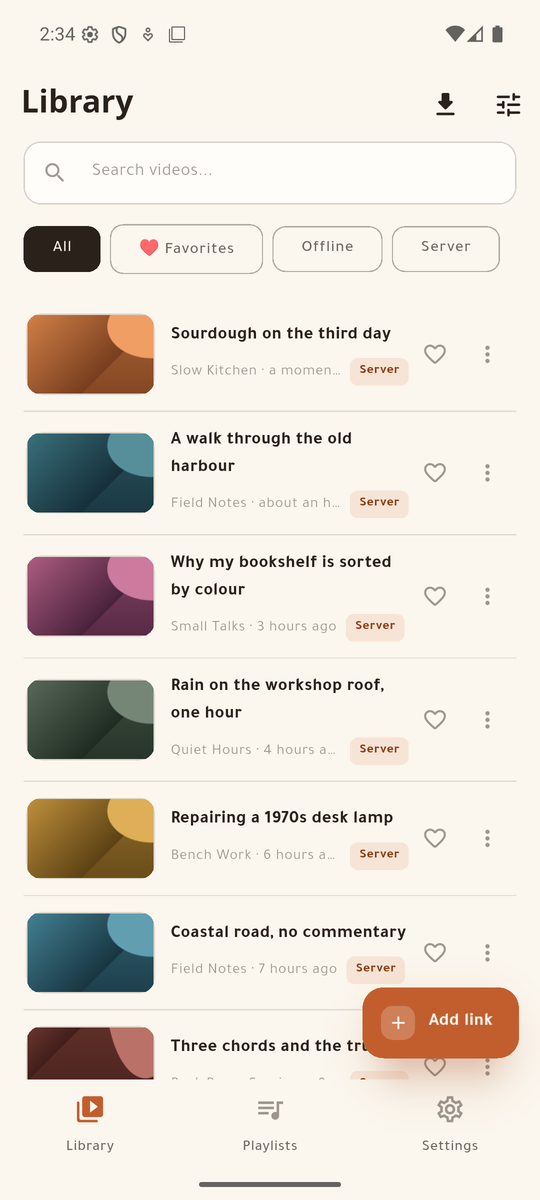
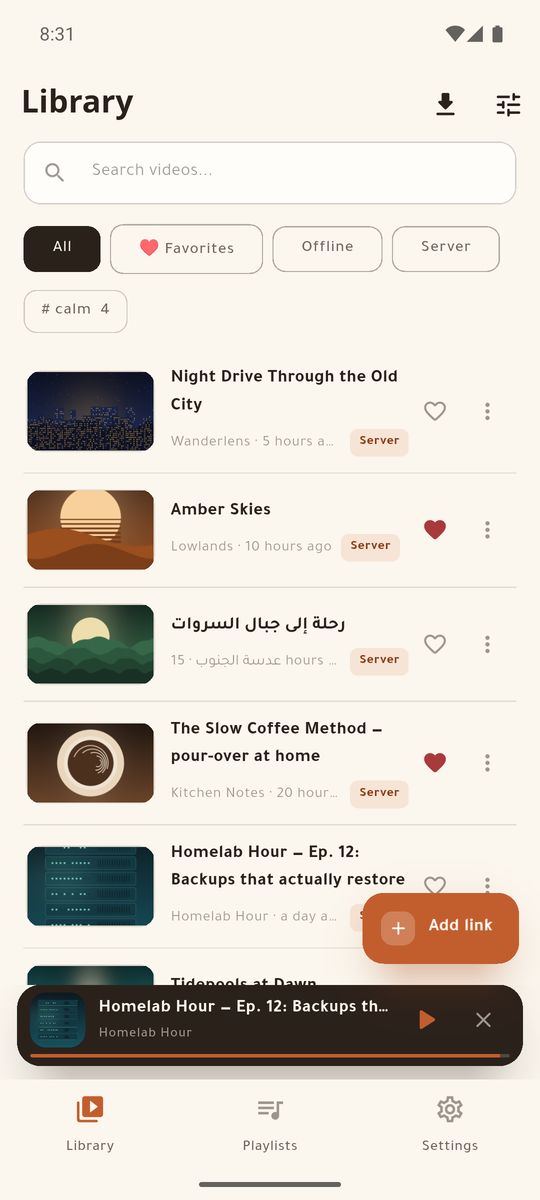
site: a gallery of the players and playlists, and a layout built for phones
The hero sits beside a phone on a wide screen and above it on a narrow one;
the screenshots ride in a rail that scrolls inside its own box, so the page
never grows wider than the phone; the two apps are cards, not a table.
Every title and cover shown is invented.

diff --git a/index.html b/index.html
@@ -10,8 +10,12 @@
 <meta property="og:title" content="MeTube Mobile — Android clients for MeTube">
 <meta property="og:description" content="Queue a link from your phone, then keep the file on your server and stream it, or pull it to the device and let the server clean itself up.">
 <meta property="og:url" content="https://sagheerys.github.io/metube-mobile/">
-<meta property="og:image" content="https://sagheerys.github.io/metube-mobile/screenshots/lite-day.png">
+<meta property="og:image" content="https://sagheerys.github.io/metube-mobile/screenshots/hero.jpg">
+<meta property="og:image:width" content="2000">
+<meta property="og:image:height" content="1137">
 <meta name="twitter:card" content="summary_large_image">
+<meta name="theme-color" content="#FBF6EE" media="(prefers-color-scheme: light)">
+<meta name="theme-color" content="#1A130F" media="(prefers-color-scheme: dark)">
 <link rel="preconnect" href="https://fonts.googleapis.com">
 <link rel="preconnect" href="https://fonts.gstatic.com" crossorigin>
 <link href="https://fonts.googleapis.com/css2?family=Noto+Kufi+Arabic:wght@500;700&family=Tajawal:wght@400;500;700&display=swap" rel="stylesheet">
@@ -19,118 +23,209 @@
 :root{
   --bg:#FBF6EE; --ink:#2B211B; --muted:#6B5B4E; --line:#E3D8C9;
   --card:#FFFDF8; --super:#C25E2E; --superDeep:#9E4517; --lite:#2F6D74;
+  --onAccent:#FFF8F2; --frame:#2B211B; --gutter:16px;
 }
 @media (prefers-color-scheme: dark){
   :root{ --bg:#1A130F; --ink:#F4EBDF; --muted:#C3B2A2; --line:#3A2C23;
-         --card:#241B15; --super:#E0784A; --superDeep:#C25E2E; --lite:#6FB3BA; }
+         --card:#241B15; --super:#E0784A; --superDeep:#E0784A; --lite:#6FB3BA;
+         --onAccent:#2B1207; --frame:#4A3A2F; }
 }
 *{box-sizing:border-box}
-img{max-width:100%;height:auto}
+html{-webkit-text-size-adjust:100%}
+img{max-width:100%;height:auto;display:block}
 body{margin:0;background:var(--bg);color:var(--ink);
   font-family:'Tajawal',system-ui,-apple-system,'Segoe UI',sans-serif;
-  font-size:17px;line-height:1.7}
+  font-size:17px;line-height:1.7;overflow-x:hidden}
 h1,h2,h3{font-family:'Noto Kufi Arabic','Tajawal',system-ui,sans-serif;line-height:1.3;margin:0 0 .5em}
-h1{font-size:2.3rem;font-weight:700}
-h2{font-size:1.5rem;font-weight:700;margin-top:2.5rem}
+h1{font-size:clamp(2rem,6vw,3rem);font-weight:700}
+h2{font-size:clamp(1.3rem,3.6vw,1.7rem);font-weight:700;margin-top:clamp(2.4rem,7vw,4rem)}
+h3{font-size:1.1rem;font-weight:700}
+p{margin:0 0 1em}
 a{color:var(--superDeep)}
-@media (prefers-color-scheme: dark){a{color:var(--super)}}
-.wrap{max-width:860px;margin:0 auto;padding:48px 20px 80px}
-.tag{display:inline-block;font-size:.8rem;letter-spacing:.08em;text-transform:uppercase;
+.wrap{max-width:1040px;margin:0 auto;padding:clamp(28px,6vw,64px) var(--gutter) 72px}
+.tag{display:inline-block;font-size:.78rem;letter-spacing:.08em;text-transform:uppercase;
   color:var(--muted);border:1px solid var(--line);border-radius:999px;padding:4px 12px;margin-bottom:18px}
-.lead{font-size:1.15rem;color:var(--muted);max-width:62ch}
-.cta{display:flex;flex-wrap:wrap;gap:12px;margin:28px 0 8px}
-.btn{display:inline-block;padding:12px 22px;border-radius:12px;text-decoration:none;font-weight:700}
-.btn-main{background:var(--super);color:#FFF8F2}
-@media (prefers-color-scheme: dark){.btn-main{color:#2B1207}}
-.btn-ghost{border:1px solid var(--line);color:var(--ink)}
+.lead{font-size:clamp(1.02rem,2.6vw,1.18rem);color:var(--muted);max-width:60ch}
 .note{font-size:.92rem;color:var(--muted)}
-.hero-media{margin:32px 0;text-align:center}
-.hero-media img{max-width:300px;width:100%;border-radius:18px;border:1px solid var(--line)}
-.hero-media figcaption{font-size:.9rem;color:var(--muted);margin-top:10px}
-/* The table keeps a readable width and scrolls inside its own box, so the
-   page itself never grows wider than the phone. */
-.scroller{overflow-x:auto;margin:18px 0}
-table{width:100%;min-width:460px;border-collapse:collapse;font-size:.98rem}
-th,td{text-align:left;padding:12px 10px;border-bottom:1px solid var(--line);vertical-align:top}
-th{font-weight:700}
-.lite{color:var(--lite);font-weight:700}
-.super{color:var(--super);font-weight:700}
-.shots{display:flex;gap:16px;flex-wrap:wrap;justify-content:center;margin:20px 0}
-.shots img{width:240px;max-width:45%;border-radius:14px;border:1px solid var(--line)}
-pre{max-width:100%;background:var(--card);border:1px solid var(--line);border-radius:12px;padding:14px;overflow-x:auto;font-size:.88rem}
+
+/* ── Hero: copy beside a phone on a wide screen, above it on a narrow one ── */
+.hero{display:grid;gap:clamp(24px,5vw,56px);align-items:center}
+@media (min-width:820px){.hero{grid-template-columns:1.15fr .85fr}}
+.cta{display:flex;flex-wrap:wrap;gap:12px;margin:26px 0 10px}
+.btn{display:inline-flex;align-items:center;justify-content:center;min-height:48px;
+  padding:12px 22px;border-radius:14px;text-decoration:none;font-weight:700}
+.btn-main{background:var(--super);color:var(--onAccent)}
+.btn-ghost{border:1px solid var(--line);color:var(--ink)}
+@media (max-width:480px){.btn{flex:1 1 100%}}
+.hero-phone{justify-self:center;width:min(74vw,300px)}
+
+/* ── A phone: the frame every screenshot sits in ── */
+.phone{margin:0}
+.phone img{width:100%;border-radius:26px;border:3px solid var(--frame);
+  box-shadow:0 18px 40px -18px rgba(43,33,27,.55);background:var(--card)}
+.phone figcaption{font-size:.9rem;color:var(--muted);margin-top:12px;text-align:center;line-height:1.5}
+.phone figcaption strong{display:block;color:var(--ink);font-weight:700}
+
+/* ── A rail of phones. It scrolls sideways inside its own box, bleeding to
+      the screen edge on a phone, so the page itself never grows wider. ── */
+.rail{display:grid;grid-auto-flow:column;grid-auto-columns:min(64vw,230px);gap:18px;
+  overflow-x:auto;scroll-snap-type:x mandatory;-webkit-overflow-scrolling:touch;
+  margin:22px calc(var(--gutter) * -1) 0;padding:6px var(--gutter) 22px;scrollbar-width:thin}
+.rail > *{scroll-snap-align:center}
+@media (min-width:820px){.rail{grid-auto-columns:230px;margin-inline:0;padding-inline:2px}}
+.hint{font-size:.85rem;color:var(--muted);margin:0}
+@media (min-width:1040px){.hint{display:none}}
+
+/* ── The two apps, as cards rather than a table: a table of four columns
+      is the first thing to break on a phone. ── */
+.apps{display:grid;gap:16px;margin-top:20px}
+@media (min-width:720px){.apps{grid-template-columns:1fr 1fr}}
+.app{background:var(--card);border:1px solid var(--line);border-radius:20px;padding:22px 22px 12px}
+.app h3{font-size:1.25rem;margin-bottom:2px}
+.app .for{color:var(--muted);font-size:.95rem;margin-bottom:12px}
+.app dl{margin:0}
+.app dt{font-size:.78rem;letter-spacing:.06em;text-transform:uppercase;color:var(--muted);margin-top:12px}
+.app dd{margin:2px 0 0}
+.lite h3{color:var(--lite)} .super h3{color:var(--super)}
+.lite{border-top:4px solid var(--lite)} .super{border-top:4px solid var(--super)}
+
+.split{display:grid;gap:clamp(20px,5vw,48px);align-items:center;margin-top:12px}
+@media (min-width:760px){.split{grid-template-columns:1fr minmax(220px,280px)}}
+.split .phone{justify-self:center;width:min(70vw,280px)}
+
+ul{padding-inline-start:1.2em;margin:0 0 1em}
+li{margin:.45em 0}
+pre{max-width:100%;background:var(--card);border:1px solid var(--line);border-radius:14px;
+  padding:14px;overflow-x:auto;font-size:.86rem;line-height:1.55}
 code{font-family:ui-monospace,SFMono-Regular,Consolas,monospace}
-ul{padding-inline-start:1.2em}
-li{margin:.4em 0}
-.ar{direction:rtl;text-align:right;border-top:1px solid var(--line);margin-top:56px;padding-top:32px}
-.ar ul{padding-inline-start:0;padding-inline-end:1.2em}
-.ar th,.ar td{text-align:right}
+.ar{direction:rtl;text-align:right;border-top:1px solid var(--line);margin-top:64px;padding-top:36px}
+.ar ul{padding-inline-start:1.2em}
+.ar .app dt{letter-spacing:0}
 footer{margin-top:56px;border-top:1px solid var(--line);padding-top:22px;font-size:.9rem;color:var(--muted)}
 </style>
 </head>
 <body>
 <div class="wrap">
 
-  <span class="tag">Unofficial · GPL-3.0 · Android</span>
-  <h1>MeTube Mobile</h1>
-  <p class="lead">Two Android apps for a self-hosted
-    <a href="https://github.com/alexta69/metube">MeTube</a> server — the yt-dlp
-    web downloader you already run on your NAS or homelab. Share a link from
-    your phone, and either keep the file on the server and stream it, or pull it
-    to the device and let the server clean itself up.</p>
+  <header class="hero">
+    <div>
+      <span class="tag">Unofficial · GPL-3.0 · Android</span>
+      <h1>MeTube Mobile</h1>
+      <p class="lead">Two Android apps for a self-hosted
+        <a href="https://github.com/alexta69/metube">MeTube</a> server — the yt-dlp
+        web downloader you already run on your NAS or homelab. Share a link from
+        your phone, and either keep the file on the server and stream it, or pull it
+        to the device and let the server clean itself up.</p>
+      <div class="cta">
+        <a class="btn btn-main" href="https://github.com/sagheerys/metube-mobile/releases/latest">Download the APKs</a>
+        <a class="btn btn-ghost" href="https://github.com/sagheerys/metube-mobile">Source on GitHub</a>
+      </div>
+      <p class="note">Listed in MeTube's own README, under
+        <a href="https://github.com/alexta69/metube#-sending-links-to-metube">Sending links to MeTube</a>.
+        There is no Play Store build, because Play does not allow this category.</p>
+    </div>
+    <figure class="phone hero-phone">
+      <picture>
+        <source srcset="screenshots/super-night.png" media="(prefers-color-scheme: dark)">
+        <img src="screenshots/super-day.png" width="540" height="1200" alt="The MeTube Super library: server items with covers, favourites, a tag filter and the mini player">
+      </picture>
+    </figure>
+  </header>
 
-  <div class="cta">
-    <a class="btn btn-main" href="https://github.com/sagheerys/metube-mobile/releases/latest">Download the APKs</a>
-    <a class="btn btn-ghost" href="https://github.com/sagheerys/metube-mobile">Source on GitHub</a>
+  <h2>A look inside</h2>
+  <p class="note">Every title, channel and cover below is invented for these screenshots; no real server or account appears in them.</p>
+  <div class="rail" aria-label="Screenshots of MeTube Super">
+    <figure class="phone">
+      <img loading="lazy" src="screenshots/super-player.png" width="540" height="1200" alt="Streaming a video from the server, with actions and the up-next queue beneath it">
+      <figcaption><strong>Stream from your server</strong>Save to the phone, continue as audio, share, with the queue beneath.</figcaption>
+    </figure>
+    <figure class="phone">
+      <picture>
+        <source srcset="screenshots/super-audio-night.png" media="(prefers-color-scheme: dark)">
+        <img loading="lazy" src="screenshots/super-audio-day.png" width="540" height="1200" alt="The audio player: cover art, a seek bar, shuffle, speed and the queue">
+      </picture>
+      <figcaption><strong>A real audio player</strong>Background playback, lock-screen controls, speed and shuffle.</figcaption>
+    </figure>
+    <figure class="phone">
+      <picture>
+        <source srcset="screenshots/super-playlists-night.png" media="(prefers-color-scheme: dark)">
+        <img loading="lazy" src="screenshots/super-playlists-day.png" width="540" height="1200" alt="Playlists: three automatic lists above the user's own, each with a cover mosaic">
+      </picture>
+      <figcaption><strong>Playlists</strong>Favourites, latest and offline build themselves; yours sit beneath.</figcaption>
+    </figure>
+    <figure class="phone">
+      <img loading="lazy" src="screenshots/super-queue-night.png" width="540" height="1200" alt="The up-next queue at night, with durations and the item now playing">
+      <figcaption><strong>Up next, at night</strong>A full night palette, not a half-dark screen.</figcaption>
+    </figure>
+    <figure class="phone">
+      <img loading="lazy" src="screenshots/super-select.png" width="540" height="1200" alt="Four library items selected, with actions for playlist, tag and delete">
+      <figcaption><strong>Batch actions</strong>Select many: add to a playlist, tag, or delete from the server.</figcaption>
+    </figure>
+    <figure class="phone">
+      <img loading="lazy" src="screenshots/super-playlist.png" width="540" height="1200" alt="One playlist with play all, shuffle and audio-only buttons">
+      <figcaption><strong>Play all, or just listen</strong>Any playlist plays as video or as audio only.</figcaption>
+    </figure>
+    <figure class="phone">
+      <img loading="lazy" src="screenshots/lite-shorts.png" width="540" height="1200" alt="The shorts player showing a portrait clip with details, add-to and share">
+      <figcaption><strong>A lane for portrait clips</strong>Swipe through short vertical videos, full screen.</figcaption>
+    </figure>
   </div>
-  <p class="note">Listed in MeTube's own README, under
-    <a href="https://github.com/alexta69/metube#-sending-links-to-metube">Sending links to MeTube</a>.
-    There is no Play Store build, because Play does not allow this category.</p>
-
-  <figure class="hero-media">
-    <img src="screenshots/lite-share.gif" alt="A link is shared to MeTube Lite, the server downloads it, the phone pulls the file, and the server is cleaned up">
-    <figcaption>MeTube Lite: share a link, the server downloads it, the phone pulls the file, the server is cleared. Twenty seconds, invented demo data.</figcaption>
-  </figure>
+  <p class="hint">Swipe sideways for more →</p>
 
   <h2>Which app is for you</h2>
-  <div class="scroller">
-  <table>
-    <tr><th></th><th class="lite">MeTube Lite</th><th class="super">MeTube Super</th></tr>
-    <tr><td><strong>After a download</strong></td>
-        <td>Pulls the file to the phone, then removes it from the server</td>
-        <td>Keeps everything on the server</td></tr>
-    <tr><td><strong>Library</strong></td>
-        <td>What is on the phone</td>
-        <td>The server's history and the phone's files, merged into one</td></tr>
-    <tr><td><strong>Playback</strong></td>
-        <td>Local files</td>
-        <td>Streams from the server, and plays local files</td></tr>
-    <tr><td><strong>Also has</strong></td>
-        <td>A Wi-Fi-only rule, for limited data</td>
-        <td>Tags, batch downloads, make available offline, and two server addresses it switches between</td></tr>
-  </table>
+  <div class="apps">
+    <section class="app lite">
+      <h3>MeTube Lite</h3>
+      <p class="for">For family and friends who just want the file.</p>
+      <dl>
+        <dt>After a download</dt><dd>Pulls the file to the phone, then removes it from the server.</dd>
+        <dt>Library</dt><dd>What is on the phone.</dd>
+        <dt>Playback</dt><dd>Local files.</dd>
+        <dt>Also has</dt><dd>A Wi-Fi-only rule for limited data, and it finishes at the next launch what a killed app could not.</dd>
+      </dl>
+    </section>
+    <section class="app super">
+      <h3>MeTube Super</h3>
+      <p class="for">For the person who runs the server.</p>
+      <dl>
+        <dt>After a download</dt><dd>Keeps everything on the server.</dd>
+        <dt>Library</dt><dd>The server's history and the phone's files, merged into one.</dd>
+        <dt>Playback</dt><dd>Streams from the server, and plays local files.</dd>
+        <dt>Also has</dt><dd>Tags, batch downloads, make available offline, a server card that says what the server holds and runs, and two addresses it switches between.</dd>
+      </dl>
+    </section>
   </div>
-  <p class="note">They are separate apps and install side by side.</p>
+  <p class="note" style="margin-top:14px">They are separate apps and install side by side.</p>
+
+  <h2>MeTube Lite, start to finish</h2>
+  <div class="split">
+    <div>
+      <p>Share a link from any app. The server downloads it, the phone pulls the
+         file, and the server is cleared — so a shared family server does not fill up.</p>
+      <ul>
+        <li>Links from Android's share sheet, even from a cold start, and several at once.</li>
+        <li>A four-stage pipeline — add, follow, pull, clean — with live progress and a cancel that leaves nothing behind.</li>
+        <li>Reaches the server at home or through a tunnel, and can hold downloads to Wi-Fi.</li>
+      </ul>
+      <div class="rail" aria-label="Screenshots of MeTube Lite" style="grid-auto-columns:min(46vw,190px)">
+        <figure class="phone"><img loading="lazy" src="screenshots/lite-day.png" width="540" height="1200" alt="The MeTube Lite library by day"><figcaption>By day</figcaption></figure>
+        <figure class="phone"><img loading="lazy" src="screenshots/lite-night.png" width="540" height="1200" alt="The MeTube Lite library at night"><figcaption>At night</figcaption></figure>
+      </div>
+    </div>
+    <figure class="phone">
+      <img loading="lazy" src="screenshots/lite-share.gif" width="360" height="800" alt="A link is shared to MeTube Lite, the server downloads it, the phone pulls the file, and the server is cleaned up">
+      <figcaption>Twenty seconds, invented demo data.</figcaption>
+    </figure>
+  </div>
 
   <h2>Shared by both</h2>
   <ul>
-    <li>Links from Android's share sheet, even from a cold start, and several at once.</li>
-    <li>A four-stage pipeline — add, follow, pull, clean — with live progress and a cancel that leaves nothing behind.</li>
     <li>Background audio with a media notification and lock-screen controls, a mini player, and a lane for portrait clips.</li>
     <li>Playlists, favourites, search, and plain-JSON backups that hold no secret.</li>
     <li>In-app updates, straight from the GitHub releases page.</li>
+    <li>A day palette and a night palette, each drawn on purpose.</li>
     <li>Arabic and English, right-to-left first.</li>
   </ul>
-
-  <div class="shots">
-    <picture>
-      <source srcset="screenshots/lite-night.png" media="(prefers-color-scheme: dark)">
-      <img src="screenshots/lite-day.png" alt="The MeTube Lite library">
-    </picture>
-    <picture>
-      <source srcset="screenshots/super-night.png" media="(prefers-color-scheme: dark)">
-      <img src="screenshots/super-day.png" alt="The MeTube Super library">
-    </picture>
-  </div>
 
   <h2>No server yet?</h2>
   <p>These are clients: they download nothing by themselves. Every file is
@@ -154,36 +249,41 @@ footer{margin-top:56px;border-top:1px solid var(--line);padding-top:22px;font-si
   </ul>
 
   <section class="ar" lang="ar" dir="rtl">
-    <h2>بالعربية</h2>
+    <h2 style="margin-top:0">بالعربية</h2>
     <p class="lead">تطبيقان لأندرويد لسيرفر
       <a href="https://github.com/alexta69/metube">MeTube</a> الذي تستضيفه بنفسك.
       شارك الرابط من جوالك، ثم إما أن يبقى الملف على السيرفر فتشغّله بثّاً، أو
       يُسحب إلى جهازك ويُنظَّف السيرفر تلقائياً.</p>
 
-    <div class="scroller">
-    <table>
-      <tr><th></th><th class="lite">MeTube Lite</th><th class="super">MeTube Super</th></tr>
-      <tr><td><strong>بعد التنزيل</strong></td>
-          <td>يسحب الملف إلى الجوال ثم يحذفه من السيرفر</td>
-          <td>يُبقي كل شيء على السيرفر</td></tr>
-      <tr><td><strong>المكتبة</strong></td>
-          <td>ما هو على الجوال</td>
-          <td>سجلّ السيرفر وملفات الجوال في مكتبة واحدة</td></tr>
-      <tr><td><strong>التشغيل</strong></td>
-          <td>الملفات المحلية</td>
-          <td>بثّ من السيرفر، وتشغيل محلي</td></tr>
-      <tr><td><strong>وفيه أيضاً</strong></td>
-          <td>قصر التنزيل على Wi-Fi</td>
-          <td>وسوم، وتنزيل دفعات، و«إتاحة دون اتصال»، وعنوانان للسيرفر بتبديل تلقائي</td></tr>
-    </table>
+    <div class="apps">
+      <section class="app lite">
+        <h3>MeTube Lite</h3>
+        <p class="for">للعائلة والأصدقاء: يريدون الملف فقط.</p>
+        <dl>
+          <dt>بعد التنزيل</dt><dd>يسحب الملف إلى الجوال ثم يحذفه من السيرفر.</dd>
+          <dt>المكتبة</dt><dd>ما هو على الجوال.</dd>
+          <dt>التشغيل</dt><dd>الملفات المحلية.</dd>
+          <dt>وفيه أيضاً</dt><dd>قصر التنزيل على Wi-Fi، وإكمال ما لم يكتمل عند الفتح التالي.</dd>
+        </dl>
+      </section>
+      <section class="app super">
+        <h3>MeTube Super</h3>
+        <p class="for">لمالك السيرفر.</p>
+        <dl>
+          <dt>بعد التنزيل</dt><dd>يُبقي كل شيء على السيرفر.</dd>
+          <dt>المكتبة</dt><dd>سجلّ السيرفر وملفات الجوال في مكتبة واحدة.</dd>
+          <dt>التشغيل</dt><dd>بثّ من السيرفر، وتشغيل محلي.</dd>
+          <dt>وفيه أيضاً</dt><dd>وسوم، وتنزيل دفعات، و«إتاحة دون اتصال»، وبطاقة تعرض ما على السيرفر ونسخته، وعنوانان بتبديل تلقائي.</dd>
+        </dl>
+      </section>
     </div>
 
-    <ul>
+    <ul style="margin-top:22px">
       <li>استقبال الروابط من قائمة المشاركة، ولو كان التطبيق مغلقاً، وعدة روابط معاً.</li>
-      <li>تشغيل الصوت في الخلفية مع إشعار وسائط وأزرار في شاشة القفل.</li>
+      <li>تشغيل الصوت في الخلفية مع إشعار وسائط وأزرار في شاشة القفل، ومشغل مصغّر، ومسار للمقاطع الطولية.</li>
       <li>قوائم تشغيل ومفضلة وبحث، ونسخ احتياطية بصيغة JSON لا تحمل أي سرّ.</li>
       <li>تحديث ذاتي من صفحة الإصدارات.</li>
-      <li>واجهة عربية كاملة من اليمين إلى اليسار.</li>
+      <li>واجهة عربية كاملة من اليمين إلى اليسار، بوضعين نهاري وليلي.</li>
     </ul>
 
     <p><strong>لا تملك سيرفراً؟</strong> التطبيقان لا ينزّلان شيئاً بنفسيهما: سيرفر
@@ -223,6 +323,7 @@ footer{margin-top:56px;border-top:1px solid var(--line);padding-top:22px;font-si
   "url": "https://sagheerys.github.io/metube-mobile/",
   "downloadUrl": "https://github.com/sagheerys/metube-mobile/releases/latest",
   "codeRepository": "https://github.com/sagheerys/metube-mobile",
+  "screenshot": "https://sagheerys.github.io/metube-mobile/screenshots/hero.jpg",
   "inLanguage": ["en", "ar"],
   "offers": { "@type": "Offer", "price": "0", "priceCurrency": "USD" },
   "description": "Two Android clients for a self-hosted MeTube (yt-dlp) server: Lite pulls each download to the phone and clears the server, Super keeps files on the server and streams them."
